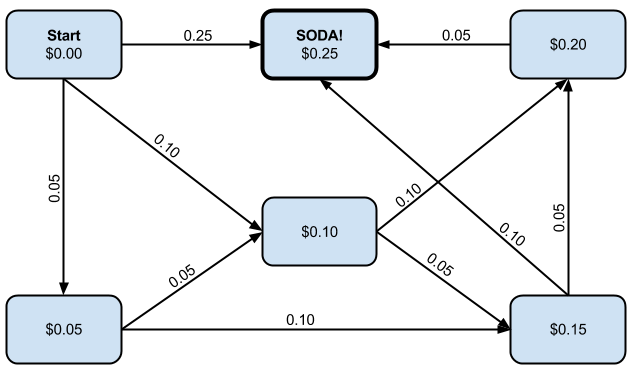
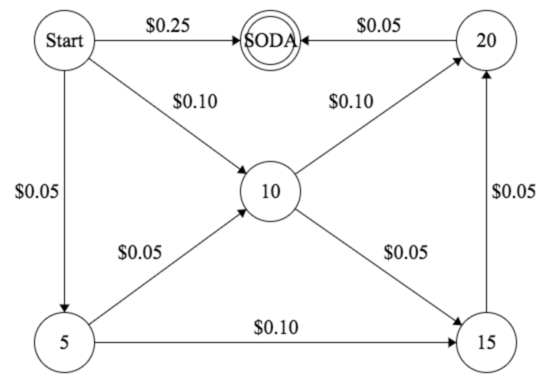
Redo state machine diagrams

diff --git a/objectives/regex/README.md b/objectives/regex/README.md
@@ -148,13 +148,7 @@ When converting to a state machine, it might be useful to think of the states as
 foo+d    matches food foood foooood etc.
 ```
 
-```
-+---+ f  +---+ o  +---+ o  +---+ d  +===+
-| S |--->| 1 |--->| 2 |--->| 2 |--->| 3 |
-+---+    +---+    +---+    +---+    +===+
-                           /o ^
-                           \__/
-```
+![Fooood State Machine](img/fooood-sm.png)
 
 Notice how the `+` in the regex forms a loop in the state machine diagram
 
@@ -184,8 +178,4 @@ Draw a state machine diagram for the following regex that matches a clock time.
 For this, it's OK to have a single transition for all the digits, e.g. "Go from
 start state to state 1 if the input is `[0-9]` or ε":
 
-```
-+---+  [0-9]   +---+
-| S |--------->| 1 |
-+---+    ε     +---+
-```
+![Regex to State Machine](img/regex-to-sm.png)

diff --git a/objectives/state-machines/README.md b/objectives/state-machines/README.md
@@ -22,14 +22,7 @@ the new state.
 
 Here is an example transition from `Happy` state to `Sad` state and back:
 
-```
-+-------+   Dental emergency    +-----+
-| Happy |---------------------->| Sad |
-+-------+                       +-----+
-    ^                              |
-    |      Dental work done        |
-    +------------------------------+
-```
+![Happy, Sad SM](img/happy-sad-sm.png)
 
 Sometimes it is useful to think of the transitions as events. Other times it is
 useful to think of them as "input consumed".
